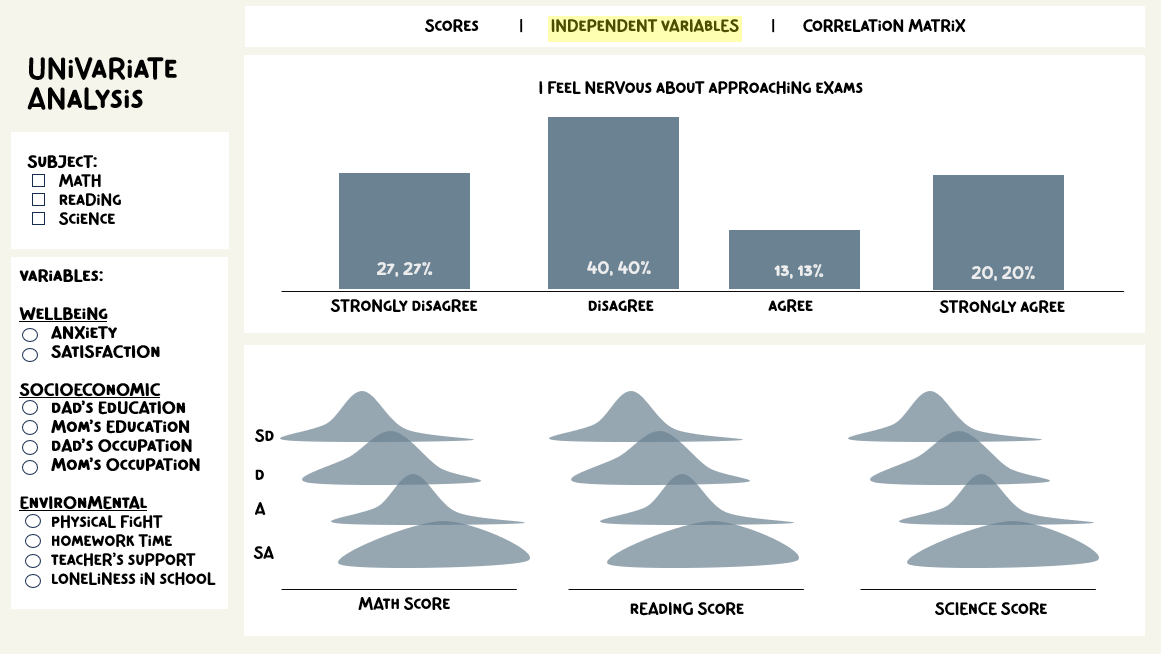
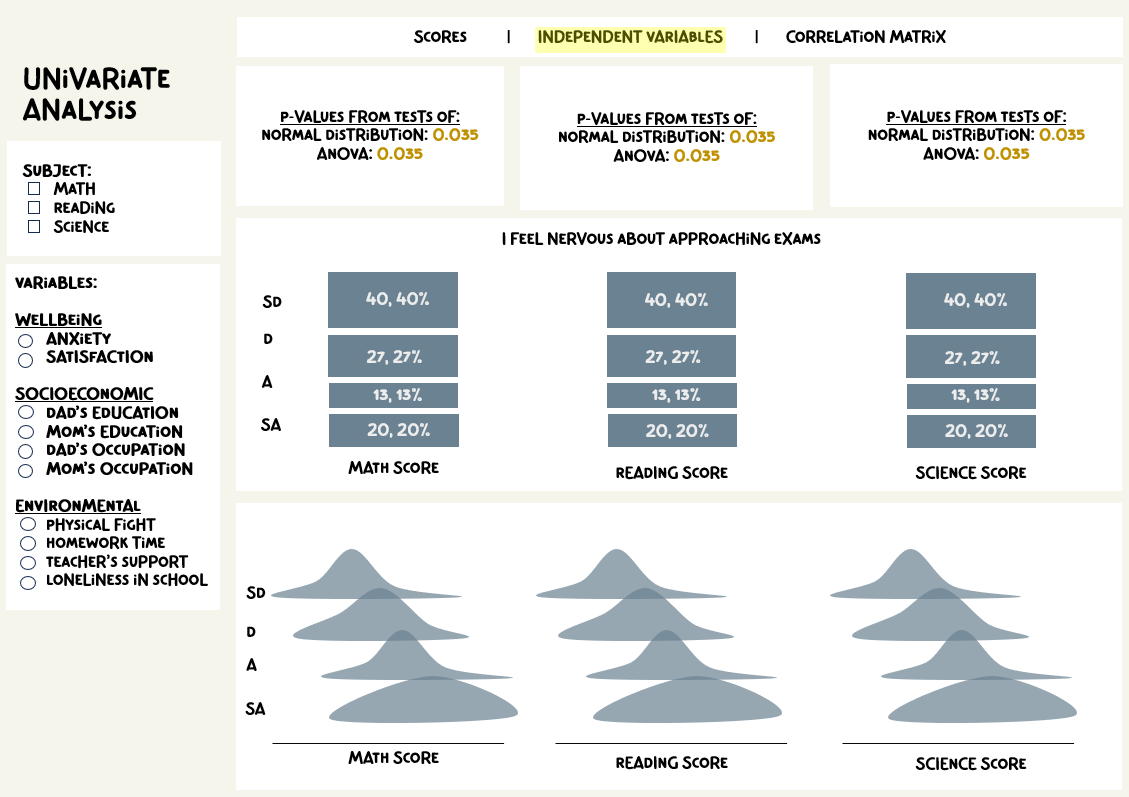
Commit edit for CDA for EDA plot for prototype

diff --git a/_site/Proposal/Proposal.html b/_site/Proposal/Proposal.html
@@ -241,8 +241,9 @@ ul.task-list li input[type="checkbox"] {
 <h3 class="anchored" data-anchor-id="independent-variables">6.1.2 Independent Variables</h3>
 <p>In this section, we utilise the following visualisations:</p>
 <ul>
-<li><p><strong>Bar Charts:</strong> These charts illustrate the proportion of responses for each independent variable. Users can easily compare the distribution of responses across different categories, gaining insights into the relative frequency of each response option.</p></li>
+<li><p><strong>Stacked Bar Charts:</strong> These charts illustrate the proportion of responses for each independent variable. By stacking the bars, users can visually compare the distribution of responses across different categories within each variable, gaining insights into the relative frequency of each response option while also observing the overall distribution of responses for each variable.</p></li>
 <li><p><strong>Density plots</strong>: For comparison of the distribution and variability of scores for each categorical values of a variable.</p></li>
+<li><p><strong>Key Statistics from Confirmatory Data Analysis (e.g., p-values from ANOVA test):</strong> These statistics offer additional insights into the relationships between variables, providing evidence to support or refute hypotheses and conclusions drawn from the data analysis.</p></li>
 </ul>
 <p>Kindly note that for brevity, the names and number of variables in the prototype below are indicative and non-exhaustive :)</p>
 <div class="quarto-figure quarto-figure-center">
